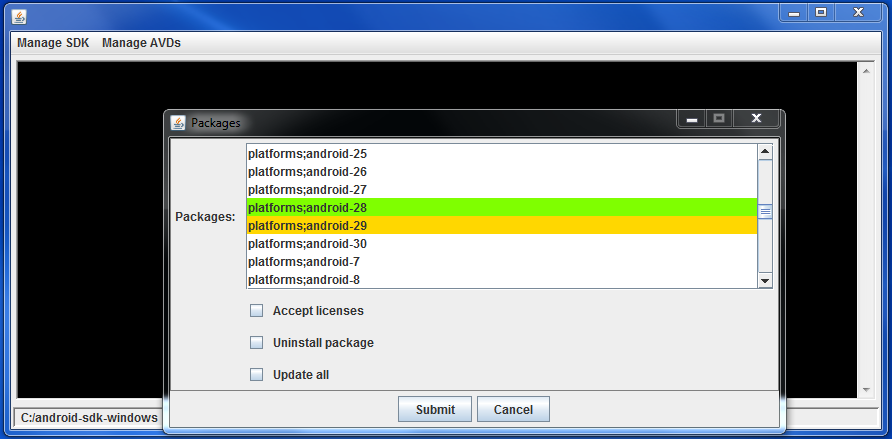
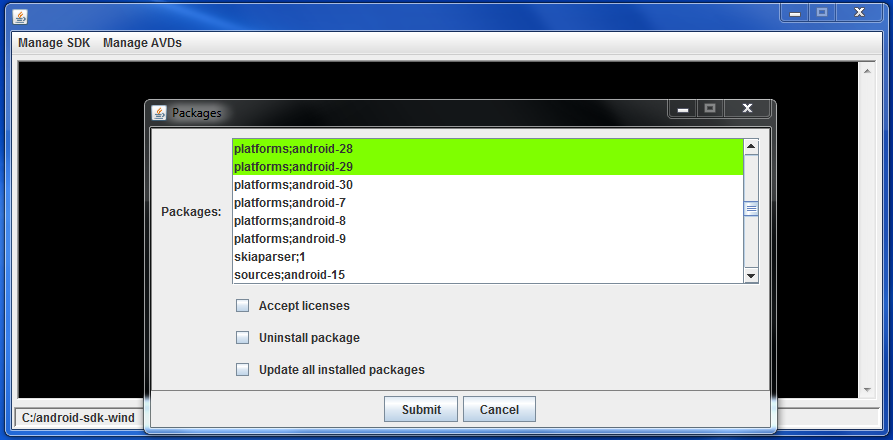
Version 1.0.5

diff --git a/src/com/dominionmobile/sdkmanager/SDKManager.java b/src/com/dominionmobile/sdkmanager/SDKManager.java
@@ -161,6 +161,7 @@ public class SDKManager
     static volatile String sShowCommandResults;
     static volatile String sPackageChannel;
     static volatile String sADV_BasedOn;
+    static volatile String sUseHTTPS;
     
     static volatile boolean bBreakOut;
     static volatile boolean bIncludeObsolete;
@@ -168,6 +169,7 @@ public class SDKManager
     static volatile boolean bHideOutput;
     static volatile boolean bUpdateSelected;
     static volatile boolean bPackages;
+    static volatile boolean bCommandFinished;
     
 	static volatile int iOS;
 	static volatile int iFontSize;
@@ -336,12 +338,30 @@ public class SDKManager
 				sb.append("list");
 				sb.append("\n");
 			}
-			
-			commandRequestLatch = new CountDownLatch(1);
+
+			bCommandFinished = false;			
+			//commandRequestLatch = new CountDownLatch(1);
 			sInternalCommand = sb.toString();
 			commandBgThread = new CommandBgThread();
 			commandBgThread.start();
-                
+
+            // Seems to need some more time..	
+            // Wait for Thread to finish..
+			while ( true )
+			{
+			    try
+			    {
+			        Thread.sleep(125);
+			    }
+			    catch (InterruptedException ie)
+			    {
+			    }
+			    
+			    if ( bCommandFinished )
+			        break;
+			}
+			
+/*                
 			// Wait for Thread to finish..
             try
             {
@@ -350,7 +370,7 @@ public class SDKManager
             catch (InterruptedException ie)
             {
             }
-			
+/**/			
 
 /*		    
 			if ( commandResultS == null )
@@ -797,6 +817,11 @@ public class SDKManager
 				{
 				    sb.append("--include_obsolete ");
 				}
+				
+				if ( sUseHTTPS.equals("false") )
+				{
+				    sb.append("--no_https ");
+				}
 
 				if ( sPackageChannel.equals("stable") )
 				    sb.append("--channel=0 ");
@@ -838,6 +863,11 @@ public class SDKManager
 				    sb.append("--include_obsolete ");
 				}
 				
+				if ( sUseHTTPS.equals("false") )
+				{
+				    sb.append("--no_https ");
+				}
+				
 				if ( sPackageChannel.equals("stable") )
 				    sb.append("--channel=0 ");
 				else if ( sPackageChannel.equals("beta") )
@@ -853,11 +883,30 @@ public class SDKManager
 				sb.append("\n");
 			}
 			
-			commandRequestLatch = new CountDownLatch(1);
+			//commandRequestLatch = new CountDownLatch(1);
+			bCommandFinished = false;
 			sInternalCommand = sb.toString();
 			commandBgThread = new CommandBgThread();
 			commandBgThread.start();
 
+			
+            // Give it some more time..	
+            // Wait for Thread to finish..
+			while ( true )
+			{
+			    try
+			    {
+			        Thread.sleep(125);
+			    }
+			    catch (InterruptedException ie)
+			    {
+			    }
+			    
+			    if ( bCommandFinished )
+			        break;
+			}
+
+/*
 			// Wait for Thread to finish..
             try
             {
@@ -866,6 +915,7 @@ public class SDKManager
             catch (InterruptedException ie)
             {
             }
+/**/
 
 /*
 			if ( commandResultS == null )
@@ -1042,6 +1092,11 @@ public class SDKManager
 				sb.append(sSDKPath);
                 
                 sb.append(";sdkmanager --list ");
+                
+				if ( sUseHTTPS.equals("false") )
+				{
+				    sb.append("--no_https ");
+				}
 
                 sb.append("--sdk_root=");
                 sb.append(sSDKPath);
@@ -1067,6 +1122,11 @@ public class SDKManager
 				
 				sb.append("&&sdkmanager --list ");
 
+				if ( sUseHTTPS.equals("false") )
+				{
+				    sb.append("--no_https ");
+				}
+				
 				sb.append("--sdk_root=");
 				sb.append(sSDKPath);
 				sb.append("\n");
@@ -1152,6 +1212,7 @@ public class SDKManager
 			sIncludeObsolete = processPath(prop.getProperty("include_obsolete"));
 			sShowCommandResults = processPath(prop.getProperty("show_command_results"));
 			sPackageChannel = processPath(prop.getProperty("package_channel"));
+			sUseHTTPS = processPath(prop.getProperty("use_https"));
 			
 		}
 		catch (IOException ioe)
@@ -1754,6 +1815,8 @@ public class SDKManager
 			
 			commandResultS = sBOut.toString();
 			
+			bCommandFinished = true;
+			
             if ( commandRequestLatch != null )
                 commandRequestLatch.countDown();
 			
@@ -1988,7 +2051,7 @@ public class SDKManager
 
 		iGridY++;
 
-		updateCheckBox = new JCheckBox("  Update all");
+		updateCheckBox = new JCheckBox("  Update all installed packages");
 		updateCheckBox.setSelected(false);
 		
 		gbc.gridx = 1;
@@ -2236,12 +2299,10 @@ public class SDKManager
 			else if ( CREATE_SUBMIT.equals(sActionCommand) )
 			{
 			    //System.out.println("CREATE_SUBMIT");
-			    
                 StringBuffer sb = new StringBuffer();
                 String sName = "";
                 String sSystemImage = "";
                 String sDevice = "";
-                //String sT = "";
                 int[] iAr;
                 int iLoc2 = 0;
                 boolean bIsSelected;
@@ -2405,6 +2466,11 @@ public class SDKManager
                     sb.append(sSDKPath);
                     
                     sb.append(";sdkmanager --licenses ");
+                    
+                    if ( sUseHTTPS.equals("false") )
+                    {
+                        sb.append("--no_https ");
+                    }
 
                     sb.append("--sdk_root=");
                     sb.append(sSDKPath);
@@ -2430,6 +2496,11 @@ public class SDKManager
                     
                     sb.append("&&sdkmanager --licenses ");
 
+                    if ( sUseHTTPS.equals("false") )
+                    {
+                        sb.append("--no_https ");
+                    }
+                
                     sb.append("--sdk_root=");
                     sb.append(sSDKPath);
                     sb.append("\n");
@@ -2741,6 +2812,11 @@ public class SDKManager
                         }
                     }
                 }
+                
+				if ( sUseHTTPS.equals("false") )
+				{
+				    sb.append("--no_https ");
+				}
                 
                 //System.out.println("bDoChannels: "+bDoChannels);
                 if ( bDoChannels )
